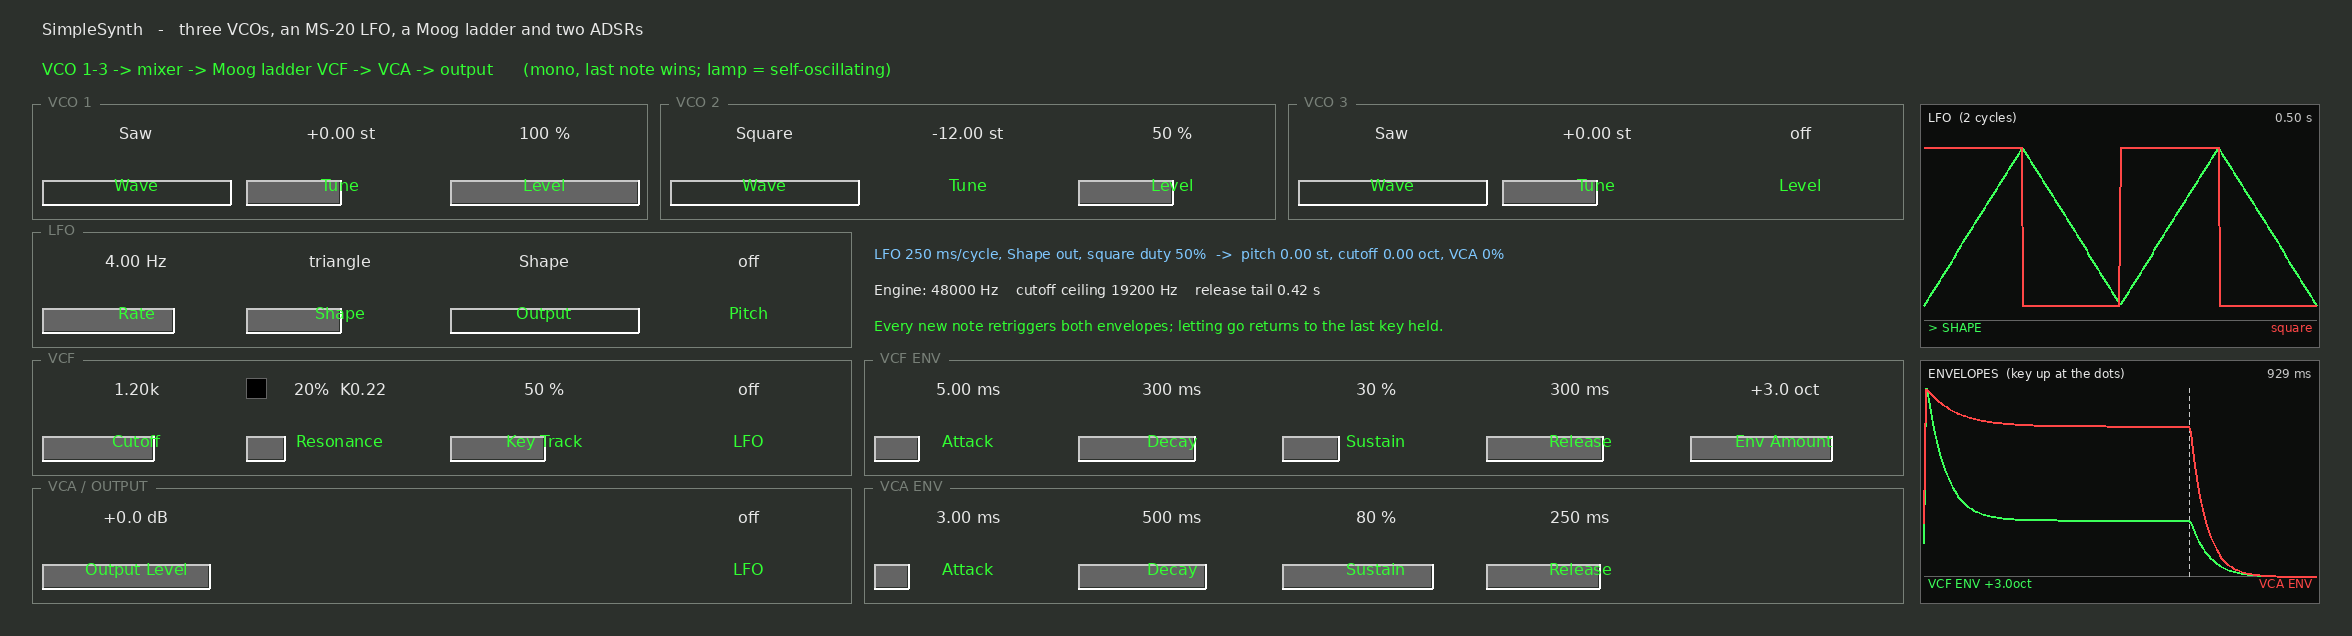
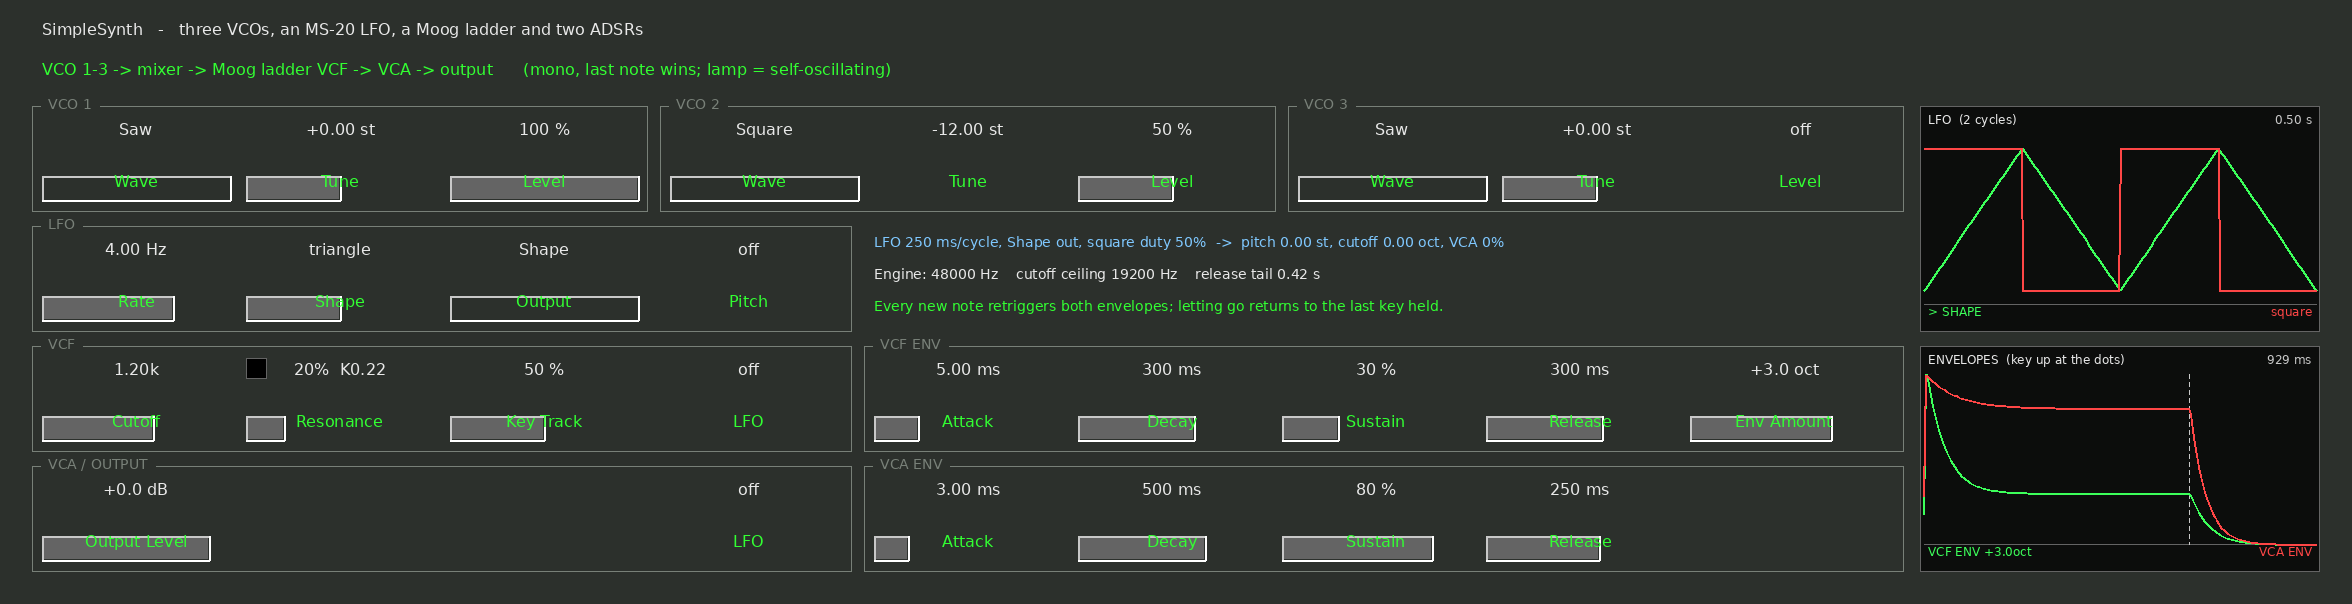
SimpleSynth: shorter group boxes, titles no longer cut off
SpyGroupBox drew its title 5 px ABOVE its own view, and VSTGUI clips
every view to its rectangle, so the top half of every box title was cut
off in the plug-in. render-panel.py did not clip, so the picture hid it.

SpyGroupBox::setTitleBand (a fourth opt-in addition to the lifted
controls) draws the frame's top edge down the view, through the title,
so all of the lettering is inside the view. The layout gives it
kGroupTitleBand = 5; the visible boxes are now 53 px round a 44 px
slider (were 58), rows 2 px apart, and the panel 1176 x 302 (was 318).
The displays line up with the frames, and render-panel.py now keeps
titles inside the view as VSTGUI does.

FilterDrum's boxes have the same clipped titles.

Verified: DSP 184/0, layout 810/0 (two new checks: title inside the
view, and clear of the slider readings), 8 sources compile against SDK +
VSTGUI headers, 0 unresolved symbols; docs/panel.png redrawn.

Claude-Session: https://claude.ai/code/session_01Ecto2uYWVVA7MK9rvmQzbe

diff --git a/source/SimpleSynthLayout.h b/source/SimpleSynthLayout.h
@@ -51,13 +51,29 @@ constexpr int kTitleY       = 10;
 constexpr int kFlowY        = 30;
 constexpr int kLabelHeight  = 16;
 
-constexpr int kGroupPadX      = 5;    // group box -> the sliders in it
-constexpr int kGroupPadTop    = 9;    // enough for the title on the edge
-constexpr int kGroupPadBottom = 5;
-constexpr int kGroupGap       = 6;    // between two group boxes
+/** THE TITLE IS INSIDE THE BOX'S VIEW, and the frame's top edge is
+    drawn this far down it, through the middle of the title.
 
+    It was FilterDrum's way round: the view's top WAS the frame's top
+    edge and the title was drawn 5 pixels above it - outside the view,
+    where VSTGUI clips every view's drawing to its own rectangle. So the
+    top half of every title was cut off in the plug-in (render-panel.py
+    does not clip, which is why the picture never showed it). Now the
+    view starts at the top of the lettering and SpyGroupBox::
+    setTitleBand() puts the frame line through it, so the whole title is
+    inside what VSTGUI lets the box draw. */
+constexpr int kGroupTitleBand = 5;
+
+constexpr int kGroupPadX      = 5;    // group box -> the sliders in it
+constexpr int kGroupPadTop    = 11;   // view top -> sliders: the whole title, then clear of it
+constexpr int kGroupPadBottom = 3;
+constexpr int kGroupGap       = 6;    // between two group boxes side by side
+constexpr int kRowGap         = 2;    // between one row of boxes and the next
+
+/** The height of a group box's VIEW. The frame drawn in it is
+    kGroupTitleBand shorter: 53 pixels round a 44-pixel slider. */
 constexpr int kGroupHeight  = kSliderHeight + kGroupPadTop + kGroupPadBottom;
-constexpr int kRowPitch     = kGroupHeight + kGroupGap;
+constexpr int kRowPitch     = kGroupHeight + kRowGap;
 
 /** Column 0's left edge. */
 constexpr int kContentX     = kMargin + kGroupPadX;
@@ -75,7 +91,7 @@ constexpr int columnX (int column, int slot)
 }
 
 /** The top of row `row`'s sliders. */
-constexpr int kRow0Y = kFlowY + kLabelHeight + 6 + kGroupPadTop;
+constexpr int kRow0Y = kFlowY + kLabelHeight + 2 + kGroupPadTop;
 
 constexpr int rowY (int row)
 {
@@ -95,11 +111,12 @@ constexpr int kDisplayGap   = 8;
 constexpr int kDisplayX     = kRowRight + kDisplayGap;
 constexpr int kDisplayWidth = 200;
 
-/** Lined up with the GROUP BOXES either side, not with the sliders, so
-    the strip and the boxes share a top and a bottom edge. */
-constexpr int kLfoViewTop    = rowY (0) - kGroupPadTop;
+/** Lined up with the GROUP BOXES' FRAMES either side, not with the
+    sliders or the boxes' views, so the strip and the drawn boxes share a
+    top and a bottom edge. */
+constexpr int kLfoViewTop    = rowY (0) - kGroupPadTop + kGroupTitleBand;
 constexpr int kLfoViewBottom = rowY (1) + kSliderHeight + kGroupPadBottom;
-constexpr int kEnvViewTop    = rowY (2) - kGroupPadTop;
+constexpr int kEnvViewTop    = rowY (2) - kGroupPadTop + kGroupTitleBand;
 constexpr int kEnvViewBottom = rowY (3) + kSliderHeight + kGroupPadBottom;
 
 /** Points per curve - one per pixel of plot is the most that shows. */
@@ -111,8 +128,8 @@ constexpr int kDisplayPoints = 200;
 constexpr int kReadoutX     = columnX (4, 1);
 constexpr int kReadoutWidth = kRowRight - kReadoutX;
 constexpr int kReadout1Y    = rowY (1) - 4;
-constexpr int kReadout2Y    = kReadout1Y + 18;
-constexpr int kReadout3Y    = kReadout2Y + 18;
+constexpr int kReadout2Y    = kReadout1Y + 16;
+constexpr int kReadout3Y    = kReadout2Y + 16;
 
 //------------------------------------------------------------------------
 // The panel
@@ -236,7 +253,11 @@ constexpr Rect groupRect (const Group& g)
 static_assert (kGroupSpacer > 0, "two group boxes side by side must not overlap");
 static_assert (kReadout3Y + kLabelHeight <= kLfoViewBottom,
                "the readout lines must fit in row 1");
-static_assert (kEditorWidth == 1176 && kEditorHeight == 318,
+static_assert (kGroupPadTop >= 11,
+               "a slider's reading must start below the title (11 pixels of lettering)");
+static_assert (kGroupTitleBand > 0 && kGroupTitleBand < kGroupPadTop,
+               "the frame line must run through the title, above the sliders");
+static_assert (kEditorWidth == 1176 && kEditorHeight == 302,
                "the panel changed size - update the banner, docs/panel.png and this assert together");
 
 //------------------------------------------------------------------------

diff --git a/source/SimpleSynthControls.h b/source/SimpleSynthControls.h
@@ -5,7 +5,7 @@
 // which came from Project6, VocalFilter and SpyBand before it - the
 // "interface style from the KorgDrum" this plug-in was asked to use.
 //
-// THREE ADDITIONS ON THIS HOP, all opt-in, so every existing call
+// FOUR ADDITIONS ON THIS HOP, all opt-in, so every existing call
 // behaves exactly as it did in FilterDrum:
 //
 //   * SpyEnvelopeView::setShowAmounts (false) hides the two Amount marker
@@ -14,6 +14,11 @@
 //   * SpyEnvelopeView::setGateMarker (fraction) draws a dotted vertical
 //     line across the plot - where the key went up on the envelope
 //     display.
+//   * SpyGroupBox::setTitleBand (n) draws the frame's top edge n pixels
+//     DOWN the view, through the title, so the whole title is inside the
+//     view. FilterDrum's boxes draw the title 5 pixels ABOVE the view,
+//     where VSTGUI clips it - the top half of every title is cut off
+//     there too. At 0 (the default) nothing changes.
 //   * SpySelector::setCompact (true) draws the switch the SAME HEIGHT AS A
 //     SLIDER'S BAR, in the same place, with the position's name where a
 //     slider has its reading and the label under it where a slider has
@@ -479,6 +484,9 @@ public:
 	SpyGroupBox (const VSTGUI::CRect& size, const std::string& title,
 	             const VSTGUI::CColor& frame);
 
+	/** ADDED FOR SIMPLESYNTH - see the banner. */
+	void setTitleBand (VSTGUI::CCoord band);
+
 	void draw (VSTGUI::CDrawContext* context) override;
 
 	CLASS_METHODS (SpyGroupBox, VSTGUI::CView)
@@ -486,6 +494,7 @@ public:
 private:
 	std::string    mTitle;
 	VSTGUI::CColor mFrame;
+	VSTGUI::CCoord mTitleBand = 0.;
 };
 
 //------------------------------------------------------------------------

diff --git a/tests/LayoutTests.cpp b/tests/LayoutTests.cpp
@@ -112,6 +112,14 @@ int main ()
 		check (!overlaps (groupRect (g), readouts), std::string (g.title) + " box clear of the readout lines");
 	}
 	check (inside (lfoView, panel) && inside (envView, panel), "both displays inside the panel");
+
+	// THE TITLE MUST BE INSIDE THE BOX'S VIEW - VSTGUI clips a view to its
+	// own rectangle, and a title drawn above it (FilterDrum's way) is cut
+	// in half. SpyGroupBox draws 11 pixels of lettering from 5.5 above
+	// the frame line, which sits kGroupTitleBand + 0.5 down the view.
+	check (kGroupTitleBand + 0.5 - 5.5 >= 0.0, "every box title starts inside its view");
+	check (kGroupTitleBand + 0.5 - 5.5 + 11.0 <= kGroupPadTop + 1.0,
+	       "and ends above the readings of the sliders in the box");
 	check (!overlaps (lfoView, envView), "the displays do not overlap");
 	check (inside (readouts, panel), "the readout lines inside the panel");
 
@@ -134,7 +142,7 @@ int main ()
 			if (g.row == 0) lfoTop = std::min (lfoTop, groupRect (g).top);
 			if (g.row == 3) envBottom = std::max (envBottom, groupRect (g).bottom);
 		}
-		check (lfoTop == kLfoViewTop, "the LFO display's top is the VCO boxes' top");
+		check (lfoTop + kGroupTitleBand == kLfoViewTop, "the LFO display's top is the VCO boxes' frame");
 		check (envBottom == kEnvViewBottom, "the envelope display's bottom is the ENV boxes' bottom");
 		for (const auto& g : kGroups)
 			if (g.stretchToRowRight)

diff --git a/tools/render-panel.py b/tools/render-panel.py
@@ -121,8 +121,16 @@ def bevel(x0, y0, x1, y1, light, dark):
 
 
 def group_box(rect, title):
-    """SpyGroupBox: a rectangle with its name breaking the top edge."""
+    """SpyGroupBox: a rectangle with its name breaking the top edge.
+
+    The rect is the VIEW; the frame's top edge is titleBand down it
+    (setTitleBand), and the title is centred on that edge. Everything is
+    drawn inside the view - VSTGUI clips a view to its rectangle, and this
+    script used not to, which is how a title cut in half in the plug-in
+    looked whole in the picture."""
     x0, y0, x1, y1 = rect
+    clip_top = y0
+    y0 = y0 + P['titleBand']
     tw = d.textlength(title, font=F_SMALL) / SCALE
     gap0, gap1 = x0 + 4, x0 + 4 + tw + 8
     d.line([s(x0), s(y0), s(gap0), s(y0)], fill=G_FRAME, width=1)
@@ -130,7 +138,8 @@ def group_box(rect, title):
     d.line([s(x0), s(y1) - 1, s(x1) - 1, s(y1) - 1], fill=G_FRAME, width=1)
     d.line([s(x0), s(y0), s(x0), s(y1) - 1], fill=G_FRAME, width=1)
     d.line([s(x1) - 1, s(y0), s(x1) - 1, s(y1) - 1], fill=G_FRAME, width=1)
-    text(x0 + 8, y0 - 5, title, fill=G_FRAME, fnt=F_SMALL)
+    # Centred on the edge, and - like VSTGUI - never above the view.
+    text(x0 + 8, max(y0 - 5.5, clip_top), title, fill=G_FRAME, fnt=F_SMALL)
 
 
 def slider(c):

diff --git a/source/SimpleSynthControls.cpp b/source/SimpleSynthControls.cpp
@@ -1258,7 +1258,9 @@ void SpyGroupBox::draw (CDrawContext* context)
 
 	const CCoord left   = r.left + 0.5;
 	const CCoord right  = r.right - 0.5;
-	const CCoord top    = r.top + 0.5;
+	// ADDED FOR SIMPLESYNTH: mTitleBand moves the top edge down the view
+	// so the title centred on it is inside the view - see setTitleBand.
+	const CCoord top    = r.top + mTitleBand + 0.5;
 	const CCoord bottom = r.bottom - 0.5;
 
 	if (mTitle.empty ())
@@ -1292,7 +1294,7 @@ void SpyGroupBox::draw (CDrawContext* context)
 	CRect text (r);
 	text.left   = left + kTitleIndent;
 	text.right  = text.left + titleWidth + 2.;
-	text.top    = r.top - 5.;
+	text.top    = top - 5.5;
 	text.bottom = text.top + 11.;
 
 	context->setFontColor (mFrame);
@@ -1305,6 +1307,14 @@ void SpyGroupBox::draw (CDrawContext* context)
 //------------------------------------------------------------------------
 // ADDED FOR SIMPLESYNTH - see the banner in SimpleSynthControls.h
 //------------------------------------------------------------------------
+void SpyGroupBox::setTitleBand (CCoord band)
+{
+	if (band == mTitleBand)
+		return;
+	mTitleBand = band;
+	invalid ();
+}
+
 void SpyEnvelopeView::setShowAmounts (bool show)
 {
 	if (show == mShowAmounts)

diff --git a/source/SimpleSynthEditor.cpp b/source/SimpleSynthEditor.cpp
@@ -68,9 +68,15 @@ void SimpleSynthEditor::addGroupBox (const Layout::Group& group)
 	// ADDED BEFORE THE CONTROLS IT ENCLOSES, so it is behind them. It is
 	// mouse-disabled and never fills, so a click inside it reaches
 	// whatever is really there.
+	//
+	// THE VIEW STARTS AT THE TOP OF THE TITLE and the frame line is drawn
+	// kGroupTitleBand down it - see the note on kGroupTitleBand in
+	// SimpleSynthLayout.h for why the title used to be cut off.
 	const Layout::Rect r = Layout::groupRect (group);
-	frame->addView (new SpyGroupBox (CRect (r.left, r.top, r.right, r.bottom),
-	                                 group.title, Colours::kGroupFrame));
+	auto* box = new SpyGroupBox (CRect (r.left, r.top, r.right, r.bottom),
+	                             group.title, Colours::kGroupFrame);
+	box->setTitleBand (Layout::kGroupTitleBand);
+	frame->addView (box);
 }
 
 //------------------------------------------------------------------------

diff --git a/tools/dump-layout.cpp b/tools/dump-layout.cpp
@@ -61,8 +61,8 @@ int main ()
 
 	std::printf ("{\n");
 	std::printf ("  \"width\": %d, \"height\": %d,\n", kEditorWidth, kEditorHeight);
-	std::printf ("  \"contentX\": %d, \"titleY\": %d, \"flowY\": %d, \"labelHeight\": %d,\n",
-	             kContentX, kTitleY, kFlowY, kLabelHeight);
+	std::printf ("  \"contentX\": %d, \"titleY\": %d, \"flowY\": %d, \"labelHeight\": %d, \"titleBand\": %d,\n",
+	             kContentX, kTitleY, kFlowY, kLabelHeight, kGroupTitleBand);
 
 	std::printf ("  \"groups\": [\n");
 	for (int i = 0; i < kNumGroups; ++i)

diff --git a/PORTING-NOTES.md b/PORTING-NOTES.md
@@ -124,11 +124,12 @@ Times are 0.5 ms (attack) / 1 ms (decay, release) to 10 s, log.
 Four rows in signal order — VCOs, LFO, VCF + VCF ENV, VCA/OUTPUT + VCA ENV —
 with an LFO display (both outputs, the patched one marked) and an envelope
 display (both ADSRs on one time axis, key-up marked with dots) in a strip on
-the right. 1176 × 318.
+the right. 1176 × 302.
 
 - **`SimpleSynthControls.*` is FilterDrum's control set**, namespace renamed,
-  plus three opt-in additions — `SpyEnvelopeView::setShowAmounts` and
-  `setGateMarker`, and `SpySelector::setCompact` — see its banner. `diff` it against FilterDrum's to see
+  plus four opt-in additions — `SpyEnvelopeView::setShowAmounts` and
+  `setGateMarker`, `SpySelector::setCompact` and `SpyGroupBox::setTitleBand`
+  — see its banner. `diff` it against FilterDrum's to see
   exactly that.
 - **The layout is data** in `SimpleSynthLayout.h`, with no VSTGUI in it.
 - **Every string that depends on a value** is made in
@@ -136,6 +137,14 @@ the right. 1176 × 318.
 - Both, plus the DSP's trace functions, feed **`tools/dump-layout.cpp`**,
   whose JSON `tools/render-panel.py` draws into `docs/panel.png`. So the
   picture is drawn from the code the editor runs, not from a parsed copy.
+- **Box titles are inside the box's view** (`setTitleBand`). FilterDrum's
+  SpyGroupBox draws the title 5 px *above* its view, and VSTGUI clips a
+  view to its rectangle, so the top half of every title was cut off in the
+  plug-in (Andy saw it; `render-panel.py` did not clip, so the picture
+  hid it — it clips now). The view now starts at the top of the lettering
+  and the frame line runs through it; boxes are 53 px tall round a 44 px
+  slider (were 58) with 2 px between rows. **FilterDrum has the same
+  clipped titles.**
 - **The switches are the height of a slider's bar** (`setCompact`): an
   outlined box exactly where a slider's bar sits, the position's name
   where a slider's reading is, the label ("Wave", "Output") under it. They
